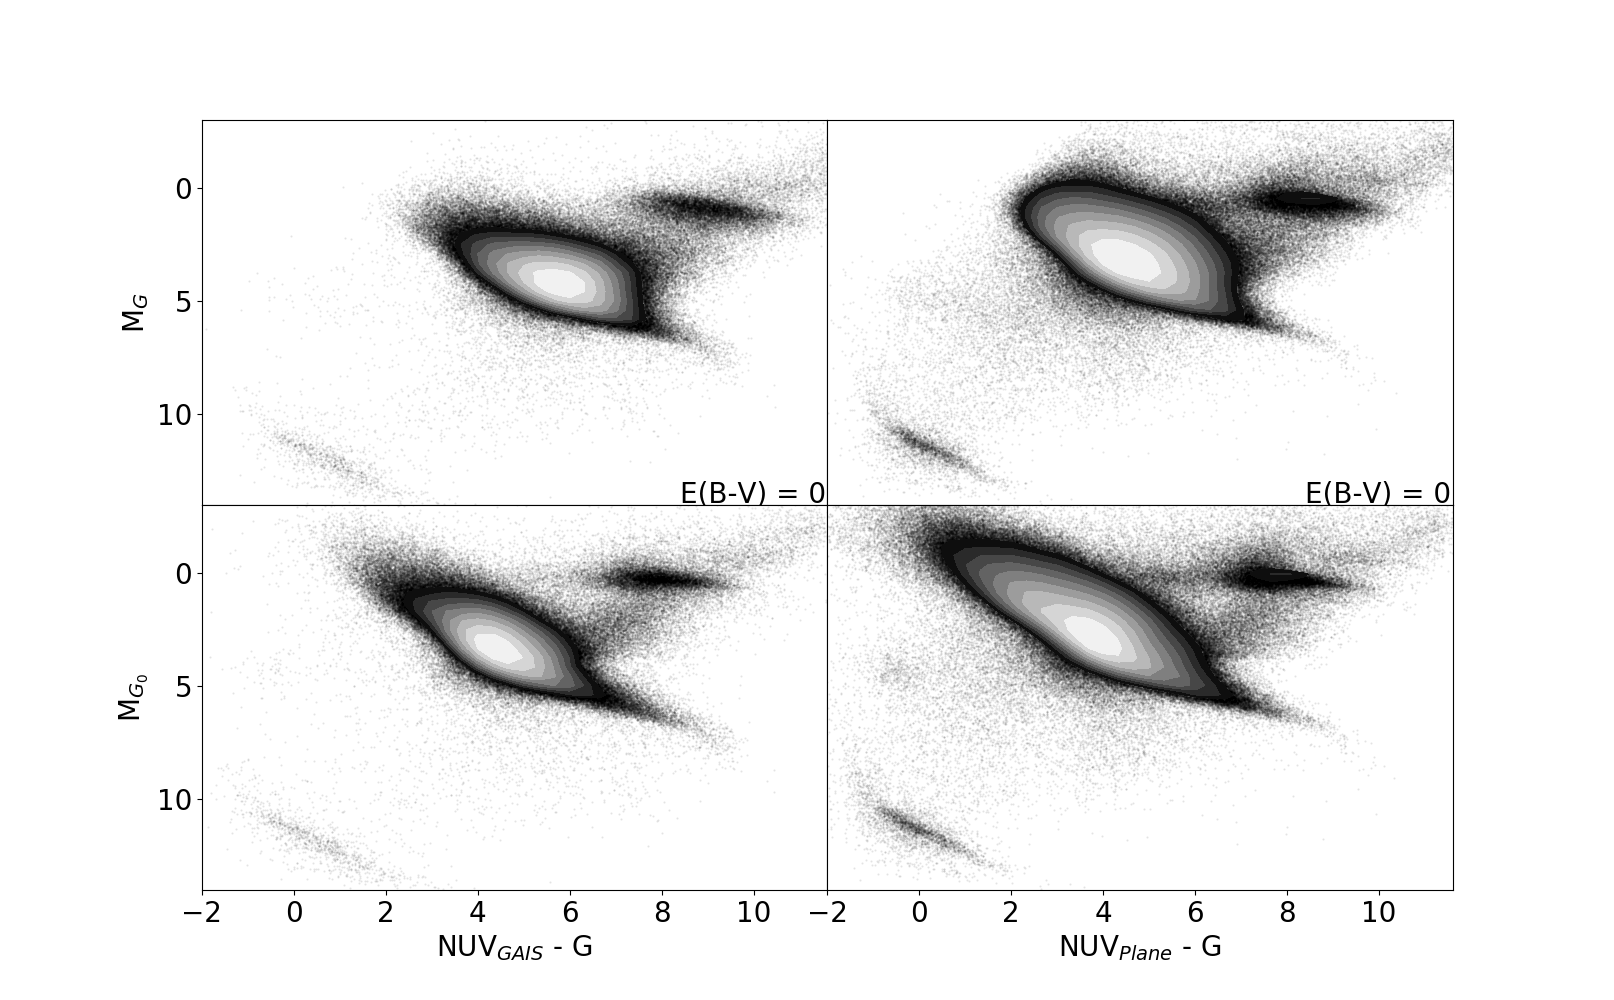
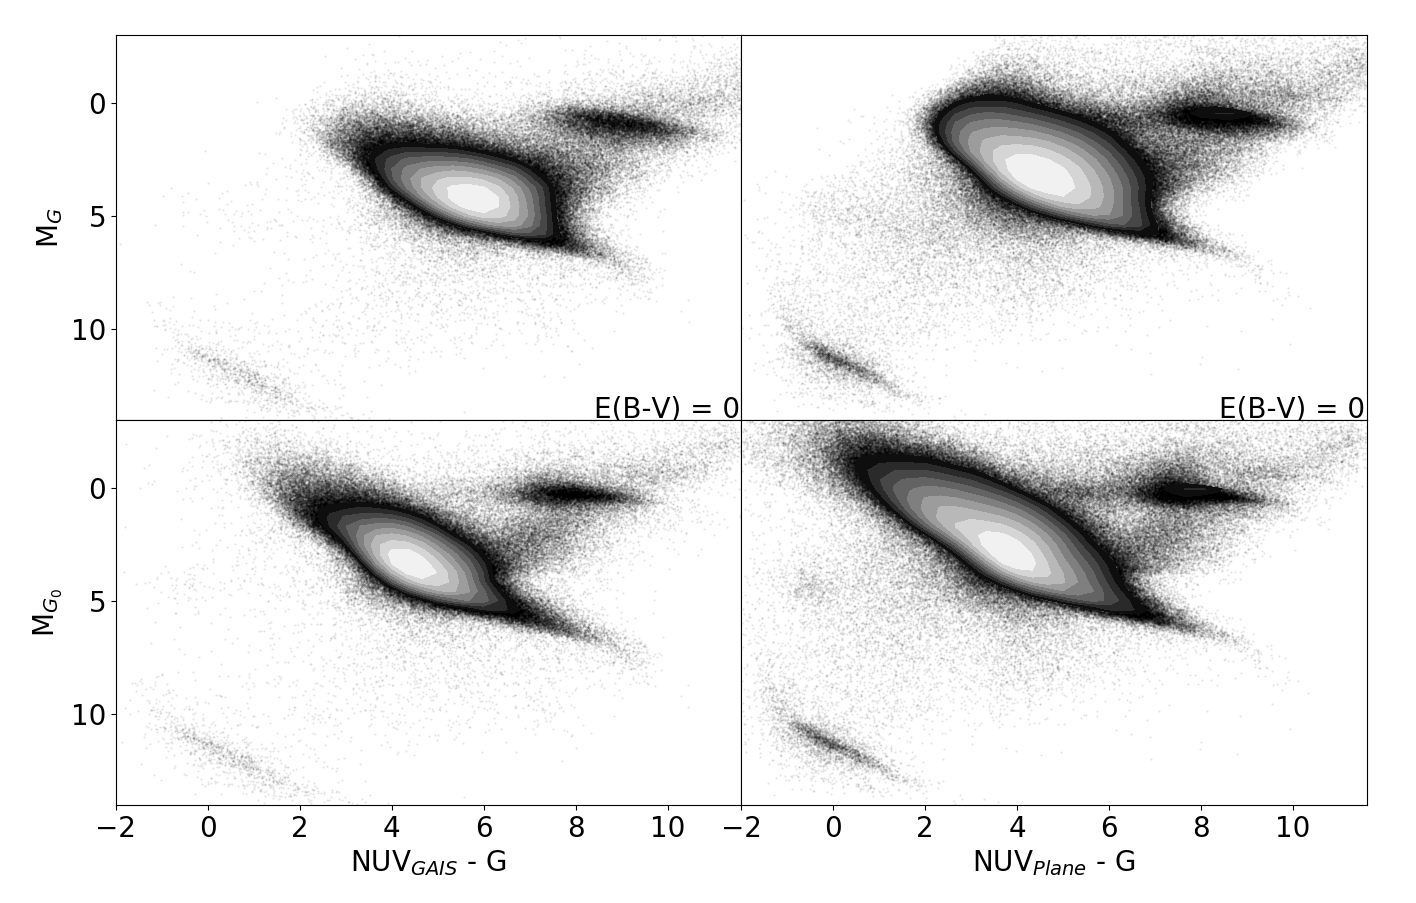
grvsnuvg plots

diff --git a/pipeline/misc.py b/pipeline/misc.py
@@ -743,6 +743,35 @@ WHERE 1=CONTAINS(
   CIRCLE('ICRS', gaia.ra, gaia.dec, 0.0008333333333333334)
 )
 
+# Now try for PS1 DR1
+SELECT crossmatch_positional('MyDB','planecoords','PanSTARRS_DR1','StackObjectThin',3.0,'galexmatch') FROM dual
+
+SELECT a."ra", a."dec", ps."objID", ps."gra", ps."gdec", ps."gApMag", ps."gApMagErr", ps."rra", ps."rdec", ps."rApMag", ps."rApMagErr",ps."ira", ps."idec", ps."iApMag", ps."iApMagErr",ps."zra", ps."zdec", ps."zApMag", ps."zApMagErr",ps."yra", ps."ydec", ps."yApMag", ps."yApMagErr", distance(
+  POINT('ICRS', a.col1, a.col2),
+  POINT('ICRS', ps.gra, ps.gdec)) AS dist
+FROM PanSTARRS_DR1.StackObjectThin AS ps, MyDB.planecoords AS a
+WHERE 1=CONTAINS(
+  POINT('ICRS', a.ra, a.dec),
+  CIRCLE('ICRS', ps.ra, ps.dec, 0.0008333333333333334)
+)
+
+# casjobs says do this except they don't have spgetneighbors...wtf
+CREATE TABLE #UPLOAD(
+   up_ra FLOAT,
+   up_dec FLOAT,
+   up_id int
+)
+INSERT INTO #UPLOAD
+SELECT RA AS UP_RA,DEC AS UP_DEC,search_id AS UP_ID
+FROM MyDB.planecoords 
+CREATE TABLE #tmp (
+              up_id int,
+               objid bigint
+)
+INSERT INTO #tmp
+EXEC spGetNeighbors 0.05
+INSERT INTO MyDB.pan
+select a.*,t.objid as matched_id from #tmp t, MyDB.planecoords a  where t.up_id = a.search_id 
 
 #############################################################
 # Match dust to plane data. Do twice because query is killed

diff --git a/pipeline/planepaperplots.py b/pipeline/planepaperplots.py
@@ -182,7 +182,7 @@ from matplotlib.patches import Polygon
 from matplotlib.collections import PatchCollection
 fig, ax = plt.subplots()
 pickles = Table.read('picklemags_laphare_final.txt', format='ascii')
-scatter_contour(ps['nuv']-ps['g_ps'], ps['g_ps']-ps['r_ps'], threshold=10000, log_counts=True, histogram2d_args=dict(bins=40), plot_args=dict(color='k', markersize=1, alpha=0.1), contour_args=dict(cmap=cm.gray))
+scatter_contour(ps['nuv_1']-ps['g_ps'], ps['g_ps']-ps['r_ps'], threshold=10000, log_counts=True, histogram2d_args=dict(bins=40), plot_args=dict(color='k', markersize=1, alpha=0.1), contour_args=dict(cmap=cm.gray))
 plt.scatter(pickles['nuv']-pickles['g'], pickles['g']-pickles['r'], color='red', label='SED model',  s=30)
 plt.xlim((-1.2, 7))
 plt.ylim((-1, 2))
@@ -197,6 +197,7 @@ plt.xlabel('NUV - g')
 plt.ylabel('g - r')
 plt.arrow(3,  -0.75,  2.972-1.1838,  1.1838-0.8664,  head_length=0.05,  head_width=0.02,  color='red')
 plt.legend(scatterpoints=1, loc=4)
+plt.show()
 
 # MS, WDs and binaries respectively
 p1 = Polygon([[1.7, -0.5], [1.9, 0.3], [2.7, 0.7], [4, 1.05], [5.2, 1.05], [5.8, 1], [6.5, 0.95], [6.6, 0.3], [6, -0.1], [4.6, -0.4], [3.2, -0.5], [1.7, -0.5]])
